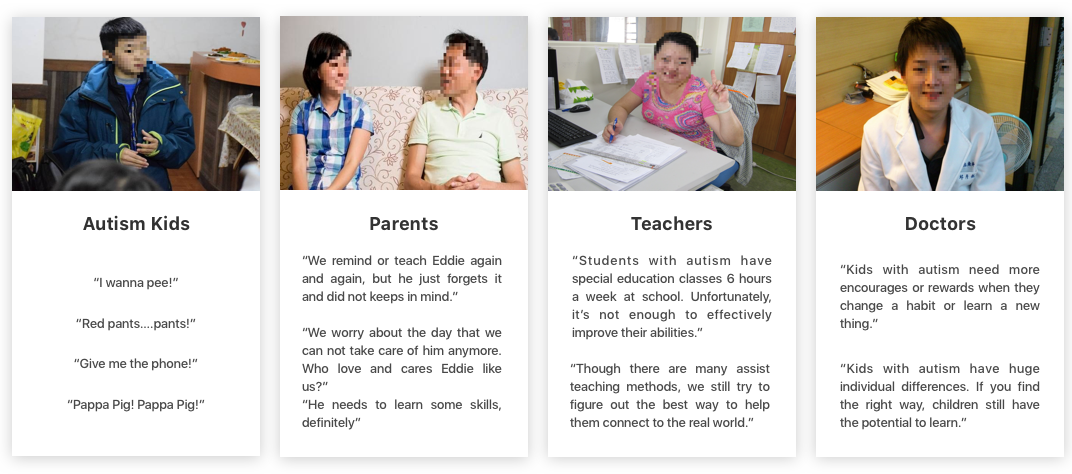
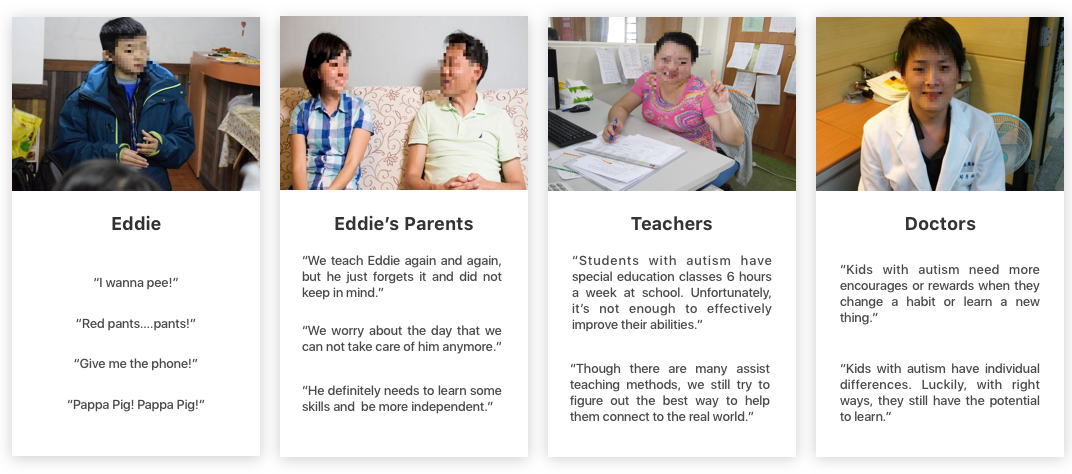
xcxcx

diff --git a/star_rain.html b/star_rain.html
@@ -63,8 +63,8 @@
                 <div class="leftcolumn">
                     <div class="contentbox">
                         <h3>Overview</h3>
-                        <p>I am a member of Autism Services Kids Club of NTU since I was a freshman. The club is dedicated to developing kids’ interests with engaging activities, innovative classes, and playful environment.</p>
-                        <p>As a UX designer, I keep reflecting on the question: how might we help children with autism and their families to ease the daily struggle and improve their life? In 2018 spring, I conducted a UX design project with <a href="http://www.ditldesign.com/">Professor. Tang </a> and participated in <a href="http://www.uxdaward.org/">UXD Award 2018</a> to realize my ideal.</p>
+                        <p>I am a member of the Autism Services Kids Club at NTU since I was a freshman. The club is dedicated to developing kids’ interests with engaging activities, innovative classes, and playful environment.</p>
+                        <p>As a UX designer, I keep reflecting on the question: how might we help children with autism and their families to ease the daily struggle and improve their lives? In 2018 spring, I conducted a UX design project with <a href="http://www.ditldesign.com/">Professor. Tang </a> and participated in <a href="http://www.uxdaward.org/">UXD Award 2018</a> to realize my ideal.</p>
                     </div>
                 </div>
                 <div class="rightcolumn">
@@ -103,14 +103,15 @@
                 <div class="sqs-block html-block sqs-block-html" data-block-type="2" id="block-yui_3_17_2_6_1455386252372_174868">
                     <div class="sqs-block-content">
                         <h2 class="text-align-center" id="yui_3_17_2_6_1455386252372_174694">
-                        <strong id="yui_3_17_2_6_1455386252372_174693">As a Member of Autism Services Kids Club</strong>
+                        <strong id="yui_3_17_2_6_1455386252372_174693">As a Member of the Autism Services Kids Club</strong>
                       </h2>
                     </div>
                 </div>
                 <div class="col-md-10 col-md-offset-1">
-                    <p>The most critical volunteer work I participated in is the Autism Serves Kids Club. The club is dedicated to developing kids’ interests with engaging activities, innovative classes, and playful environment.</p>
-                    <p>During my volunteer time, I came to realize that mainstream therapy in Taiwan for children with autism was still relying on traditional means, such as face-to-face instruction and medical treatment. In these five years of companionship with over 20 autistic kids, I keep reflecting on the question: <b style="color: #FF7500;">how might we help children with autism and their families to ease the daily struggle and improve their life? </b> It inspired me to conduct a user experience research and design project to improve this situation. 
- </p>
+                   
+                    <p>While volunteering, I came to realize that mainstream therapy for children with autism in Taiwan still relies on traditional means, such as face-to-face instruction and medical treatment.  I felt strongly that alternative learning methods like educational apps should be leveraged, since many kids showed interest in interacting with digital devices.</p>
+
+                    <p>As a UX designer, I keep reflecting on the question: <b style="color: #FF7500;">how might we help children with autism and their families to ease the daily struggle and improve their life? </b> It inspired me to conduct a user experience design project to improve this situation. </p>
                     <p>&nbsp;</p>
                 </div>
                 <div class="container">
@@ -134,7 +135,7 @@
                     <p style="margin:-1px">&emsp;</p>
                     <div class="sqs-block-content">
                         <h1 class="text-align-center">
-                                <i style="font-size: 20px">Autism Services Kids Club of NTU</i>
+                                <i style="font-size: 20px">The Autism Services Kids Club at NTU</i>
                             </h1>
                     </div>
                     <div class="sqs-block horizontalrule-block sqs-block-horizontalrule" data-block-type="47" id="block-yui_3_17_2_6_1455386252372_55892">
@@ -151,7 +152,7 @@
                     </div>
                     <p>&nbsp;</p>
                     <div class="col-md-10 col-md-offset-1">
-                        The half-year long design process contained the research phase and two design iterations. I did the observatory during the volunteer activities, interviewed with autism kids, parents and professionals in the first month, and the rest of the design period happened at my class of User Experience Design.
+                        The half-year long design process contained the research phase and two design iterations. I did the observatory during the volunteer activities, interviewed with autistic kids, parents and professionals in the first month, and the rest of the design period happened at my class of the User Experience Design.
                     </div>
                     <div class="container">
                         <div class="row">
@@ -196,11 +197,12 @@
                         </section>
                         <div class="col-md-10 col-md-offset-1">
                             <h2> Key Findings from Interviews:</h2>
-                            <p> 1. Kids often forget or lose their stuff. Thus, caregivers must check or remind him/her many times every day.
-                                <br> 2. Teaching kids with autism to learn living skills is very exhausted. Parents need to have efficient methods.
-                                <br> 3. However, with correct methods, kids can improve their abilities significantly.
-                                <br> 4. Though special education in school can assist autistic kids to have living skills and social interaction, there is still a huge gap when they face the real world.
-                                <br> 5. The symptoms vary widely from one person to the next. It will be suitable if kids can be taught by the one who understands him/her the most. </p>
+                            <p> 1. Many kids show interest in interacting with mobile phones or computers.
+                           	 <br> 2. Kids often forget or lose their stuff. Thus, caregivers must check and remind him/her many times every day.
+                                <br> 3. Teaching kids with autism to learn living skills is very exhausted. Parents need to have effective methods.
+                                <br> 4. However, with proper methods, kids can improve their abilities significantly.
+                                <br> 5. Though special education at school provides living skills and social interaction classes, there is still a huge gap when kids face the real world.
+                                <br> 6. The autistic symptoms vary widely from one person to the next. It will be suitable if kids can be taught by the one who understands him/her the most. </p>
                         </div>
                         <p>&nbsp;</p>
                         <div class="col-md-12 col-xs-12">
@@ -231,8 +233,8 @@
                             <br> 1. <b style="color: #FF7500;"> Social Interaction Difficulties</b>: There is no fixed pattern for social dysfunction because kids on the autism spectrum are unique with different strengths and need at different ages, but social interaction is almost always one of the major problems of people with autism.
                             <br>2. <b style="color: #FF7500;">Lack of Living Skills</b>: Learning practical skills can be challenging for kids with autism, but is essential for independence (For example, shopping, taking transportation, completing daily chores, house cleaning, doing dishes and cooking). Parents are also worried about whether their kids can cope with the real-world alone if one day they can not take care of kids anymore.
                             <h2>Shed light on our design directions:</h2>
-                            <p>In the beginning, we mainly focus on the problems of social interaction, but after discussing it with Professor. Tang and doctors, we thought the social dysfunctions originate from "Stereotypic Behaviors", which is defined as repetitive body movement invariance that serves no social function and makes it hard for kids to engage in skills such as joint attention or social referencing while in the classroom.</p>
-                            <p>It is complex to solve the symptoms of stereotypic behaviors due to serious medical issues. In addition, our ultimate goal is to help autism kids and their caregivers reduce daily struggle. As a result, <b style="color: #FF7500;">how to improve the living abilities of kids with autism will be the main issue that we focus on.</b>
+                            <p>In the beginning, we mainly focus on the problems of social interaction. After discussing it with Professor. Tang and the doctors, we thought the social dysfunctions originate from "Stereotypic Behaviors", which is defined as repetitive body movement invariance that serves no social function and makes it hard for kids to engage in skills such as joint attention or social referencing while in the classroom.</p>
+                            <p>It is complex to solve the symptoms of stereotypic behaviors due to the medical issues. In addition, our ultimate goal is to help kids and their caregivers reduce daily struggle. As a result, we focus on <b style="color: #FF7500;">how to help autistic children learn various life tasks effectively.</b>
                             </p>
                         </div>
                         </section>
@@ -259,7 +261,7 @@
                             </div>
                         </div>
                         <div class="col-md-10 col-md-offset-1">
-                            <p> According to journey map, we found that the problem has two sides: <b style="color: #FF7500;">kids with autism are lack of practical life skills, and parents get exhausted by having to teach things repeatedly.</b> As a result, our design will be suitable for two kinds of users:<b style="color: #FF7500;"> kids with autism and their parents</b>.</p>
+                            <p> According to journey map, we found that the problem has two sides: <b style="color: #FF7500;">kids with autism lack life skills, and parents grow exhausted from having to repeatedly teach them things.</b> Therefore, our design will be suitable for two groups of users:<b style="color: #FF7500;"> kids with autism and their parents</b>.</p>
                              <p> Designing personas for child with autism, Eddie Wu, and his parents, The Wus, helped us in making informed design decisions as we had the end-users always in mind.</p>
                         </div>
                         <div class="col-md-12">
@@ -289,8 +291,8 @@
                                 <div class="col-md-10 col-md-offset-1">
                                     <p> We analysis 20 existing education apps for kids, including learning the alphabet, math, geometry, draw, and music. There are also a few apps design for learning life skills, like go shopping and take a bus. However, there were two main problems of existing education tools:
                                     <br> 1. Kids can not connect teaching or gaming content with the real world.
-                           			<br>2.  Children with autism have individual differences, each one should be taught and treated by distinct method, make sure that kids receive the right support and reach person-centered needs.  
-                                   	<p>Thus, we picked <b style="color: #FF7500;">fidelity level</b> and <b style="color: #FF7500;">customized level</b> as competitor analysis standards. We want to design an education app that caregivers can <b style="color: #FF7500;">customize teaching content, and through high-fidelity gaming</b>, kids can learn  living skills efficiently.</p>
+                           			<br>2.  Children with autism have individual differences. Each one should be taught and treated by distinct method, so it can make sure that kids receive the proper support and reach person-centered needs.  
+                                   	<p>Thus, we picked <b style="color: #FF7500;">fidelity level</b> and <b style="color: #FF7500;">customized level</b> as competitor analysis standards. We want to design an education app that caregivers can <b style="color: #FF7500;">customize teaching content</b>, and through real-life scenarios, kids can learn  living skills efficiently.</p>
                                 </div>
                                 <div class="col-md-12 col-xs-12">
                                     <div class="container">
@@ -319,8 +321,8 @@
                                 </section>
                                 <div class="col-md-10 col-md-offset-1">
                                     <p>1. <b style="color: #FF7500;">Gamification</b>: Through gamification, fun can be put back in the learning equation for kids and increase engagement.
-                                        <br>2. <b style="color: #FF7500;">High-Reality</b>: Each stage displays in high-reality, helps kids with autism connect learning content with the real world.
-                                        <br>3. <b style="color: #FF7500;">Customized-Teaching Content</b>: Considered the problem of the individual difference between kids with autism, it will be better if parents can customize teaching content for their kids, such as take MRT, go to a convenience store and do the dishes. 
+                                        <br>2. <b style="color: #FF7500;">Real-life scenarios</b>: Each stage displays with real-life scenarios, which helps kids connect learning content with the real world.
+                                        <br>3. <b style="color: #FF7500;">Customized-teaching content</b>: Considered the problem of the individual difference between kids with autism, it will be better if parents can customize teaching content for their kids, such as riding a school bus and shopping in a convenience store.
                                         <br>
                                         <br>Below are a few sketches and app information architectures: </p>
                                 </div> 
@@ -351,7 +353,7 @@
                                     </div>
                                 </div>
                                 <div class="col-md-10 col-md-offset-1">
-                                    <p>To design and build more efficiently, we created a style guide as part of our effort to design the Star Rain app. Yellow was chosen as the main color because it aligns with our design goal: "Warm and Hope".</p>
+                                    <p>To design and build more efficiently, we created a style guide as part of our effort to design the Star Rain app. Yellow was chosen as the main color because it aligned with our design goal: "Warm and Hope".</p>
                                 </div>
                                 <div class="col-md-12 col-xs-12">
                                     <div class="container">
@@ -385,7 +387,7 @@
                                         <div class="sqs-block html-block sqs-block-html" data-block-type="2" id="block-yui_3_17_2_6_1455386252372_156599">
                                             <div class="sqs-block-content">
                                                 <h1 class="text-align-center">
-          <strong>What do we learn from the prototpye testing?</strong>
+          <strong>What did we learn from the prototpye testing?</strong>
         </h1>
                                             </div>
                                         </div>
@@ -398,7 +400,8 @@
                                                 </div>
                                                 <div class="col-md-10 col-md-offset-1">
                                                     <p>&nbsp;</p>
-                                                    <p>At first, we designed a prototype and conducted usability tests both for desktop and app. We found that kids with autism are easier to use an app rather than desktop because some kids have muscle weakness when they control the mouse. Later, we mainly focused on usability tests for mobile devices and conducted fifteen minutes long 1:1 session with 5 kids and 7 parents. After testing, parents did a series of qualitative questions regarding the prototype's interface and functionality. The overall impression was positive and we got insightful feedback. Kids played the games with enthusiastic, and parents loved the features of customizing. The design was also able to reduce caregivers' feeling of fatigue when they taught kids repeatedly. Nevertheless, some parents thought it won't be attractive for teenagers with autism. Therefore, it still needs to follow up for a piece of time to value the effect of the design solution and optimize the idea later.
+                                                    <p>At first, we designed a prototype and conducted usability tests both for desktop and app. We found that kids with autism were easier to use an app rather than desktop because some kids have muscle weakness when they control the mouse. Later, we mainly focused on usability tests for mobile devices and conducted fifteen minutes long 1:1 session with 5 kids and 7 parents. </p>
+                                                    <p>After testing, parents did a series of qualitative questions regarding the prototype's interface and functionality. The overall impression was positive and we got insightful feedback. Kids played the games with enthusiastic, and parents loved the features of customizing. The design was also able to reduce caregivers' feeling of fatigue when they taught kids repeatedly. Nevertheless, some parents thought it won't be attractive for teenagers with autism. Therefore, it still needs to follow up for a piece of time to value the effect of the design solution and optimize the idea later.
                                                 </div>
                                                 <div class="col-md-12 col-xs-12">
                                                     <div class="container">
@@ -416,9 +419,10 @@
                                                         </div>
                                                     </div>
                                                     <div class="col-md-10 col-md-offset-1">
-                                                        <p>The idea of this project is related back to what I saw during my volunteer experience. That is, the mainstream therapy in Taiwan for children with autism was still relying on traditional means, such as face-to-face instruction and medical treatment. On the other hand, alternative learning methods like educational apps should be implemented since many kids showed interest in interacting with digital devices. However, there were only few apps available that's designed for children with autism and have limited effect. </p>
+                                                        
                                                        
-                                                        <p> During the design process, I maintained close connection with the foundation for autistic children and adults in Taiwan, a non-profit organization helping autistic people to deserve a better life. They gave me several feedbacks based on their professional experience and help me iterate the design to tackle real issues. As a designer, I learn a couple of valuable lessons with this project. One is that no one solution can entirely solve a serious problem, only a little part of it. I appreciated to have the opportunity and help children with autism and their parents to improve their life. By solving this trivial stuff happens in their every day, I hope it can eventually add on to a better experience.</p>
+                                                        <p> During the design process, I maintained close connection with the foundation for autistic children and adults in Taiwan, a non-profit organization helping autistic people to deserve a better life. They gave me several feedbacks based on their professional experience and help me iterate the design to tackle real issues. </p>
+                                                        <p>Through the process of iteration, I learned how to reach the autistic kids’ market in the digital world, how to improve a product’s usability, and how to place myself in a user’s shoes objectively and comprehensively. I appreciated to have the opportunity and help children with autism and their parents to improve their life. By solving this trivial stuff happens in their every day, I hope it can eventually add on to a better experience.</p>
                                                         <p>&emsp;</p>
                                                         <p>&emsp;</p>
                                                         <p>&emsp;</p>
